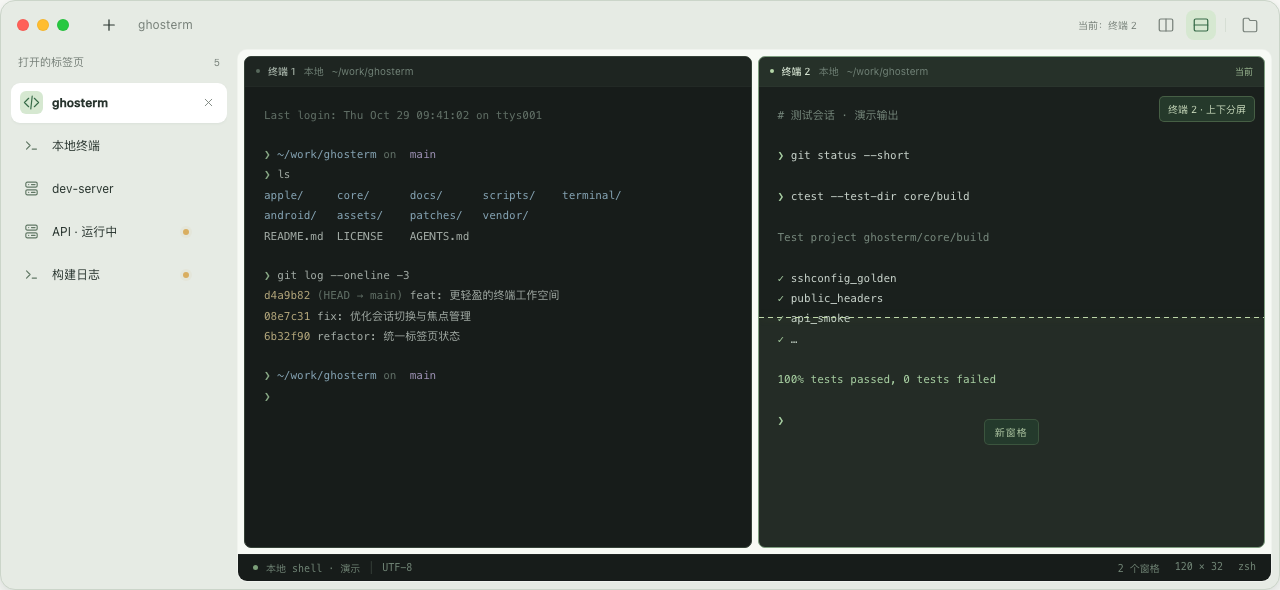
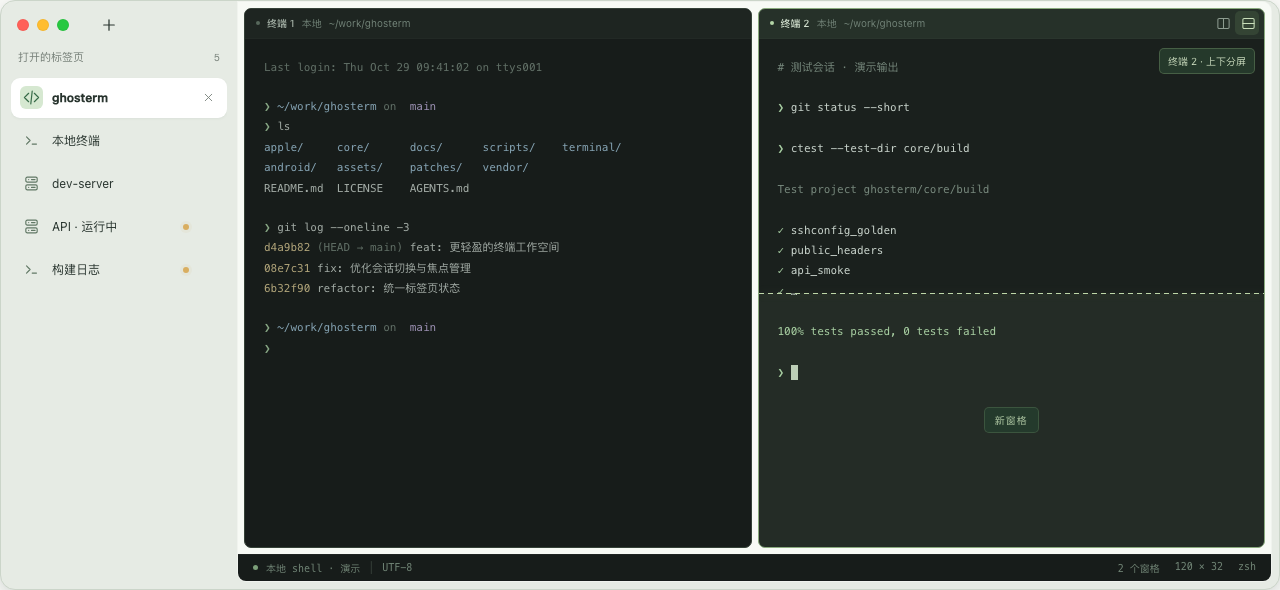
docs(design): 侧栏模式移除顶栏并将分屏入口归入窗格

diff --git a/docs/design/tabs-chrome-prototype.html b/docs/design/tabs-chrome-prototype.html
@@ -17,6 +17,10 @@ body{margin:0;background:var(--page);color:var(--ink);font-family:Inter,-apple-s
 
 .window-tools{display:flex;align-items:center;gap:5px;flex-shrink:0;margin-left:auto;padding-left:12px}#focus-target{font-size:10px;color:var(--muted);padding-right:9px}.tools-divider{width:1px;height:14px;background:var(--line);margin:0 4px}.window-tools .is-previewing{color:var(--accent);background:var(--accent-bg)}.window[data-mode=top] .top-tabs{flex:1}.window[data-mode=top] .top-list{flex:1}.window[data-mode=top] .window-tools{height:100%;padding-bottom:3px}.window .content{background:var(--surface);border-radius:10px;margin:0 7px 7px 0}.terminal-layout{padding:6px;background:var(--surface);gap:6px}.pane-tree,.pane-branch{display:flex;flex:1;min-width:0;min-height:0;gap:6px}.pane-branch[data-axis=rows]{flex-direction:column}.pane{display:flex;flex-direction:column;position:relative;flex:1;min-width:0;min-height:0;border:1px solid #354238;border-radius:7px;overflow:hidden;background:var(--terminal);outline:none}.pane:focus-visible{outline:2px solid #7aa584;outline-offset:1px}.pane.is-active{border-color:#7f9f80;box-shadow:inset 0 2px #a1c296}.pane-header{height:30px;flex-shrink:0;display:flex;align-items:center;gap:8px;padding:0 11px;border-bottom:1px solid #ffffff05;color:#718277;font-size:10px;background:#1e2521;white-space:nowrap;overflow:hidden}.pane-header strong{font-weight:500;color:#a6b3a8;font-size:10px}.pane.is-active .pane-header{background:#263129}.pane.is-active .pane-header strong{color:#d4e2d0}.pane-focus-dot{width:4px;height:4px;flex-shrink:0;border-radius:50%;background:#57685b}.pane.is-active .pane-focus-dot{background:#b4d6a7}.pane-host{max-width:30%;overflow:hidden;text-overflow:ellipsis}.pane-path{overflow:hidden;text-overflow:ellipsis;min-width:0}.pane-active-label{margin-left:auto;color:#99b590;font-size:9px;padding-left:5px;visibility:hidden}.pane.is-active .pane-active-label{visibility:visible}.pane-body{flex:1;min-height:0;padding:19px 19px;font-size:11px;line-height:1.85}.pane:not(.is-active) .pane-body{opacity:.78}.pane:not(.is-active) .cursor{visibility:hidden}.pane-body .terminal-note{display:none}.split-preview{position:absolute;inset:30px 0 0;z-index:2;pointer-events:none;background:#accb9b06}.preview-half{position:absolute;background:#a4c89413;display:flex;align-items:center;justify-content:center;color:#afc7a3;font-size:10px;letter-spacing:1px}.preview-half span{background:#243c2ddd;padding:5px 10px;border-radius:5px;border:1px solid #819e7344}.split-preview[data-axis=cols] .preview-half{inset:0 0 0 50%}.split-preview[data-axis=rows] .preview-half{inset:50% 0 0}.preview-line{position:absolute;box-shadow:0 0 10px #b6da9c35}.split-preview[data-axis=cols] .preview-line{top:0;bottom:0;left:50%;width:1px;background:repeating-linear-gradient(to bottom,#bdd7a8 0 5px,transparent 5px 9px)}.split-preview[data-axis=rows] .preview-line{left:0;right:0;top:50%;height:1px;background:repeating-linear-gradient(to right,#bdd7a8 0 5px,transparent 5px 9px)}.preview-label{position:absolute;top:9px;right:9px;font-size:10px;color:#cbdcbe;background:#263c2de8;border:1px solid #8baa7855;border-radius:5px;padding:5px 8px}.pane-menu{position:fixed;z-index:30;width:196px;padding:5px;background:var(--surface);color:var(--ink);border:1px solid var(--line);border-radius:10px;box-shadow:0 10px 35px #14211c35}.pane-menu[hidden]{display:none}.pane-menu-title{font-size:10px;color:var(--muted);padding:8px}.pane-menu button{width:100%;display:flex;justify-content:space-between;text-align:left;font-size:12px;padding:9px 8px;border-radius:5px}.pane-menu button:hover{background:var(--accent-bg)}.pane-menu button span{color:var(--muted)}.pane-menu-divider{height:1px;background:var(--line);margin:4px}.file-panel{border-radius:6px}.window .statusbar{margin-top:0}
 @media(max-width:1000px){h1{font-size:28px}.pane-body{padding:15px 12px;font-size:10px}.window-tools{padding-left:6px;gap:2px}}@media(max-width:640px){h1{font-size:24px}#focus-target{display:none}.window-tools{gap:0;padding-left:0}.window-tools .icon-btn{width:25px}.tools-divider{margin:0 3px}.pane-header{padding:0 6px;gap:5px}.pane-host,.pane-active-label{display:none}.pane-body{padding:12px 8px;font-size:9px}.terminal-layout,.pane-tree,.pane-branch{gap:4px}.terminal-layout{padding:4px}.preview-label{font-size:8px;top:5px;right:5px;padding:4px}.preview-half{font-size:9px}}
+
+/* 侧栏模式让终端直抵窗口上沿；只有顶部标签模式保留整行标题栏。 */
+.window:not([data-mode=top])>.titlebar{display:none}.sidebar{padding-top:0}#side-controls-slot{height:48px;flex-shrink:0;display:flex;align-items:center;padding:0 4px}.window-controls{display:flex;align-items:center;gap:14px;flex-shrink:0}#top-controls-slot{flex-shrink:0}.window[data-mode=top] .titlebar{display:flex}.window[data-mode=top] .content{border-radius:0 0 9px 9px}.window:not([data-mode=top]) .content{border-radius:0 10px 9px 9px;margin-top:0}.window:not([data-mode=top]) .terminal-layout{padding-top:6px}.pane-header{padding-right:5px;gap:7px}.pane-path{flex:1}.pane-actions{display:flex;align-items:center;gap:1px;margin-left:auto;flex-shrink:0;opacity:0;pointer-events:none}.pane:is(.is-active,:hover,:focus-within) .pane-actions{opacity:1;pointer-events:auto}.pane-action{width:24px;height:24px;border-radius:5px;color:#8d9c90}.pane-action .icon{width:15px;height:15px}.pane-action:hover,.pane-action.is-previewing{background:#54704d50;color:#c9dfba}.pane:has(.split-preview){border-color:#8aab7e}.pane:not(:is(.is-active,:hover,:focus-within)) .pane-actions{visibility:hidden}.window[data-mode=compact] #side-controls-slot{height:82px;padding:11px 0 7px;justify-content:center}.window[data-mode=compact] .window-controls{flex-direction:column;gap:10px}.window[data-mode=compact] .traffic{gap:4px;padding:0}.window[data-mode=compact] .traffic i{width:10px;height:10px}.window[data-mode=compact] .sidebar{padding-top:0}
+@media(max-width:640px){.window-controls{gap:8px}.pane-host,.pane-path{display:none}.pane-header{gap:4px;padding-left:5px}.pane-actions{gap:0}.pane-action{width:21px}.pane-action .icon{width:14px;height:14px}.window:not([data-mode=top]) .terminal-layout{padding-top:4px}.window[data-mode=compact] #side-controls-slot{height:78px}.pane-header strong{font-size:9px}}
 </style>
 </head>
 <body>
@@ -40,16 +44,16 @@ body{margin:0;background:var(--page);color:var(--ink);font-family:Inter,-apple-s
 <symbol id="i-pin" viewBox="0 0 24 24"><path d="m9 3 6 0-1 6 4 4v2H6v-2l4-4Zm3 12v6"/></symbol>
 </defs></svg>
 <main class="page">
- <header class="masthead"><div class="brand"><span class="brandmark"><svg class="icon"><use href="#i-terminal"/></svg></span>Ghosterm</div><div class="mast-meta"><span>INTERFACE EXPLORATION</span><span class="tag">交互原型 · 04</span></div></header>
- <section class="intro"><div><div class="eyebrow">LESS CHROME. MORE TERMINAL.</div><h1>按钮在右上角，切分落在当前窗格。</h1><p>点击窗格确定操作对象，悬停右上角分屏按钮，先看清楚这一刀切在哪里。</p></div><div class="controls"><button class="settings-entry" data-action="appearance">体验外观设置 <span>⌘ ,</span></button></div></section>
+ <header class="masthead"><div class="brand"><span class="brandmark"><svg class="icon"><use href="#i-terminal"/></svg></span>Ghosterm</div><div class="mast-meta"><span>INTERFACE EXPLORATION</span><span class="tag">交互原型 · 05</span></div></header>
+ <section class="intro"><div><div class="eyebrow">LESS CHROME. MORE TERMINAL.</div><h1>侧栏管标签，窗格管分屏。</h1><p>侧边模式去掉整条顶栏。分屏按钮回到窗格标题里，操作哪里，就在哪里出现。</p></div><div class="controls"><button class="settings-entry" data-action="appearance">体验外观设置 <span>⌘ ,</span></button></div></section>
  <nav class="system-menu" aria-label="macOS 菜单栏示意">
   <details><summary class="app-menu-name">Ghosterm</summary><div class="menu-popup"><button data-action="appearance">设置… <kbd>⌘ ,</kbd></button><p>标签布局位于「外观」</p></div></details>
-  <details><summary>窗口</summary><div class="menu-popup"><button data-action="search">搜索标签页… <kbd>⌘ K</kbd></button></div></details>
+  <details><summary>窗口</summary><div class="menu-popup"><button data-action="search">搜索标签页… <kbd>⌘ K</kbd></button><button id="files" aria-pressed="false">显示文件面板</button></div></details>
   <span class="menu-note">系统菜单栏示意 · 不占窗口空间</span>
  </nav>
  <section id="app" class="window" data-mode="side" aria-label="Ghosterm 应用交互预览">
-  <div class="titlebar"><div class="traffic" aria-hidden="true"><i></i><i></i><i></i></div><button id="new-tab" class="icon-btn" data-action="new" title="新建标签页 · ⌘T" aria-label="新建标签页"><svg class="icon"><use href="#i-plus"/></svg></button><div class="window-label"><strong>Ghosterm</strong><span>/</span><span id="window-title">ghosterm</span></div><div class="top-tabs"><div id="top-list" class="top-list" role="tablist" aria-label="顶部会话标签"></div></div><div class="title-spacer"></div><div class="window-tools" role="group" aria-label="当前窗格操作"><span id="focus-target">当前：终端 2</span><button id="split-cols" class="icon-btn" aria-label="左右分屏当前窗格" title="左右分屏当前窗格" data-split="cols"><svg class="icon"><use href="#i-split"/></svg></button><button id="split-rows" class="icon-btn" aria-label="上下分屏当前窗格" title="上下分屏当前窗格" data-split="rows"><svg class="icon"><use href="#i-split-rows"/></svg></button><span class="tools-divider"></span><button id="files" class="icon-btn" title="切换文件面板预览" aria-label="切换文件面板预览" aria-pressed="false"><svg class="icon"><use href="#i-folder"/></svg></button></div></div>
-  <div class="workarea"><aside class="sidebar" aria-label="会话侧栏"><div class="side-header"><span>打开的标签页</span><span id="tab-count">5</span></div><div id="side-list" class="tab-list" role="tablist" aria-label="侧边会话标签" aria-orientation="vertical"></div></aside>
+  <div class="titlebar"><div id="top-controls-slot"></div><div class="top-tabs"><div id="top-list" class="top-list" role="tablist" aria-label="顶部会话标签"></div></div></div>
+  <div class="workarea"><aside class="sidebar" aria-label="会话侧栏"><div id="side-controls-slot"><div id="window-controls" class="window-controls"><div class="traffic" aria-hidden="true"><i></i><i></i><i></i></div><button id="new-tab" class="icon-btn" data-action="new" title="新建标签页 · ⌘T" aria-label="新建标签页"><svg class="icon"><use href="#i-plus"/></svg></button></div></div><div class="side-header"><span>打开的标签页</span><span id="tab-count">5</span></div><div id="side-list" class="tab-list" role="tablist" aria-label="侧边会话标签" aria-orientation="vertical"></div></aside>
    <div class="content"><div class="terminal-layout"><div class="pane-tree" id="terminal" role="tabpanel" aria-label="模拟终端窗格"></div><aside class="file-panel" aria-label="文件面板示意"><h3>文件 <span style="float:right;color:#718576">只读预览</span></h3><div class="file-path">~/work/ghosterm/</div><div id="file-rows"></div></aside></div>
     <div class="statusbar"><span class="state-dot"></span><span id="status-label">本地 shell</span><span style="opacity:.4">│</span><span>UTF-8</span><div class="status-right"><span id="pane-label">1 个窗格</span><span>120 × 32</span><span>zsh</span></div></div>
    </div>
@@ -57,9 +61,9 @@ body{margin:0;background:var(--page);color:var(--ink);font-family:Inter,-apple-s
  </section>
  <div class="caption"><div class="caption-left"><span class="live-dot"></span><span id="mode-caption">侧边标签 · 会话平铺排列，完整标题一目了然</span></div><span><kbd>⌘ T</kbd> 新建 · <kbd>⌘ K</kbd> 搜索 · <kbd>⌘ ,</kbd> 设置</span></div>
  <section class="principles" aria-label="设计思路">
-  <article class="principle"><span class="principle-number">01 /</span><div><h2>操作集中，窗格保持干净</h2><p>左右分屏、上下分屏统一放在窗口右上角。每个窗格只显示名称与路径，不再重复放工具按钮。</p></div></article>
-  <article class="principle"><span class="principle-number">02 /</span><div><h2>先看目标，再执行切分</h2><p>细强调线标出当前窗格。悬停分屏按钮，目标内显示切分线与新窗格区域；点击后聚焦新窗格。</p></div></article>
-  <article class="principle"><span class="principle-number">03 /</span><div><h2>右键就地操作，同样直达</h2><p>右键任意窗格，可直接在这里分屏或关闭窗格。标签仍然平铺，布局切换仍在外观设置中。</p></div></article>
+  <article class="principle"><span class="principle-number">01 /</span><div><h2>侧栏模式，省下一整行</h2><p>红绿灯与唯一的加号收进侧栏顶部。终端从窗口上沿展开，不再重复显示当前标签标题。</p></div></article>
+  <article class="principle"><span class="principle-number">02 /</span><div><h2>分屏操作，跟着窗格走</h2><p>当前窗格或鼠标悬停时，标题右侧显示两颗分屏按钮。悬停先预览，点击只切分所在窗格。</p></div></article>
+  <article class="principle"><span class="principle-number">03 /</span><div><h2>同一套操作，适配两种布局</h2><p>顶部模式保留标签栏，分屏入口仍在窗格里。标签平铺、右键菜单与外观设置保持一致。</p></div></article>
  </section>
  <footer class="footnote"><span>设计预览：会话、终端输出及主机均为演示数据；不会执行命令或建立连接。</span><span>参考 <a href="https://blog.google/products-and-platforms/products/chrome/new-chrome-productivity-features/" target="_blank" rel="noopener noreferrer">Chrome 新版纵向标签</a> · Ghosterm UI concept</span></footer>
 </main>
@@ -88,19 +92,24 @@ let nextPaneId=1,menuPane=null;const paneStates=new Map();
 const hosts=[{name:'dev-server',address:'dev@192.0.2.10',path:'/srv/ghosterm'},{name:'api-staging',address:'dev@192.0.2.21',path:'/srv/api'},{name:'production',address:'ops@198.51.100.8',path:'/srv/app'}];
 function notify(message){$('#toast').textContent=message;$('#toast').classList.add('show');clearTimeout(toastTimer);toastTimer=setTimeout(()=>$('#toast').classList.remove('show'),2400)}
 function tabHTML(t){return `<div class="tab" role="tab" tabindex="${t.id===active?0:-1}" aria-selected="${t.id===active}" aria-controls="terminal" draggable="true" data-id="${t.id}" title="${escapeHTML(t.name+' · '+(t.host||'本地 shell'))}"><span class="tab-icon">${icon(t.type)}</span><span class="tab-name">${escapeHTML(t.name)}</span>${t.busy?'<span class="state-dot busy" title="任务运行中" aria-label="任务运行中"></span>':''}<button class="tab-close" aria-label="关闭 ${escapeHTML(t.name)}" title="关闭标签页" tabindex="-1">${icon('close')}</button></div>`}
+function syncChromeLayout(){
+ const slot=$(mode==='top'?'#top-controls-slot':'#side-controls-slot');
+ if($('#window-controls').parentElement!==slot)slot.append($('#window-controls'));
+}
 function render(){
+ syncChromeLayout();
  $('#tab-count').textContent=tabs.length;
  const tabMarkup=tabs.map(tabHTML).join('');
  $('#side-list').innerHTML=tabMarkup;
  $('#top-list').innerHTML=tabMarkup;
  const t=tabs.find(t=>t.id===active);
  document.querySelectorAll('[data-split],#files').forEach(button=>button.disabled=!t);
- $('#window-title').textContent=t?t.name:'新标签页';
+
 
  $('#status-label').textContent=t?(t.kind==='ssh'?'SSH · 已连接（演示）':'本地 shell · 演示'):'未连接';
  $('#terminal').innerHTML=t?renderPaneTree(getPaneState(t).tree,t,getPaneState(t).active):'<div class="empty-terminal"><h2>从一个新标签开始</h2><p>点击左上角的＋，打开本地终端或连接主机。</p></div>';
  $('#app').classList.toggle('files',!!t&&files);
- $('#files').setAttribute('aria-pressed',String(!!t&&files));
+ $('#files').setAttribute('aria-pressed',String(!!t&&files));$('#files').textContent=files?'隐藏文件面板':'显示文件面板';
  updatePaneFocus();
  const visibleList=mode==='top'?'#top-list':'#side-list';
  document.querySelector(visibleList+' .tab[aria-selected="true"]')?.scrollIntoView({block:'nearest',inline:'nearest'});
@@ -136,14 +145,14 @@ function renderPaneTree(node,t,focused){
 
 <span class="term-green">❯</span> <span class="term-blue">${escapeHTML(t.path)}</span>
 <span class="term-green">❯</span> <span class="cursor"></span></pre>`;
- return `<section class="pane ${node.id===focused?'is-active':''}" data-pane="${node.id}" tabindex="${node.id===focused?0:-1}" aria-label="${node.label}${node.id===focused?'，当前窗格':''}"><header class="pane-header"><span class="pane-focus-dot"></span><strong>${node.label}</strong><span class="pane-host">${escapeHTML(t.host||'本地')}</span><span class="pane-path">${escapeHTML(t.path)}</span><span class="pane-active-label">当前</span></header><div class="terminal pane-body">${output}</div></section>`;
+ return `<section class="pane ${node.id===focused?'is-active':''}" data-pane="${node.id}" tabindex="${node.id===focused?0:-1}" aria-label="${node.label}${node.id===focused?'，当前窗格':''}"><header class="pane-header"><span class="pane-focus-dot"></span><strong>${node.label}</strong><span class="pane-host">${escapeHTML(t.host||'本地')}</span><span class="pane-path">${escapeHTML(t.path)}</span><div class="pane-actions" role="group" aria-label="${node.label}分屏操作"><button class="icon-btn pane-action" data-split="cols" aria-label="左右分屏${node.label}" title="左右分屏此窗格" tabindex="${node.id===focused?0:-1}">${icon('split')}</button><button class="icon-btn pane-action" data-split="rows" aria-label="上下分屏${node.label}" title="上下分屏此窗格" tabindex="${node.id===focused?0:-1}">${icon('split-rows')}</button></div></header><div class="terminal pane-body">${output}</div></section>`;
 }
 function updatePaneFocus(){
  const t=tabs.find(t=>t.id===active),state=t?getPaneState(t):null;
- const leaf=state?paneLeaves(state.tree).find(p=>p.id===state.active):null;
- $('#focus-target').textContent=leaf?'当前：'+leaf.label:'没有当前窗格';
+
+
  $('#pane-label').textContent=state?paneLeaves(state.tree).length+' 个窗格':'0 个窗格';
- document.querySelectorAll('.pane').forEach(p=>{const selected=p.dataset.pane===state?.active;p.classList.toggle('is-active',selected);p.tabIndex=selected?0:-1;p.setAttribute('aria-label',p.querySelector('strong').textContent+(selected?'，当前窗格':''))});
+ document.querySelectorAll('.pane').forEach(p=>{const selected=p.dataset.pane===state?.active;p.classList.toggle('is-active',selected);p.tabIndex=selected?0:-1;p.setAttribute('aria-label',p.querySelector('strong').textContent+(selected?'，当前窗格':''));p.querySelectorAll('.pane-action').forEach(button=>button.tabIndex=selected?0:-1)});
 }
 function focusPane(id){
  const t=tabs.find(t=>t.id===active);if(!t)return;
@@ -157,7 +166,7 @@ function previewSplit(axis,id){
  const label=paneLeaves(state.tree).find(p=>p.id===target).label;
  const preview=document.createElement('div');preview.className='split-preview';preview.dataset.axis=axis;preview.setAttribute('aria-hidden','true');
  preview.innerHTML=`<div class="preview-half"><span>新窗格</span></div><div class="preview-line"></div><div class="preview-label">${label} · ${axis==='cols'?'左右':'上下'}分屏</div>`;pane.append(preview);
- document.querySelector(`[data-split="${axis}"]`)?.classList.add('is-previewing');
+ pane.querySelector(`[data-split="${axis}"]`)?.classList.add('is-previewing');
 }
 function splitPane(axis,id){
  const t=tabs.find(t=>t.id===active);if(!t)return;const state=getPaneState(t),target=id||state.active;
@@ -212,14 +221,12 @@ function openAppearance(){syncAppearance();$('#appearance').showModal()}
 document.querySelectorAll('[name="position"]').forEach(input=>input.addEventListener('change',()=>setMode(input.value)));
 $('#compact-mode').addEventListener('change',()=>setMode($('#compact-mode').checked?'compact':'side'));
 document.querySelectorAll('[name="color"]').forEach(input=>input.addEventListener('change',()=>document.body.classList.toggle('dark',input.value==='dark')));
-$('#files').onclick=()=>{files=!files;render()};
-document.querySelectorAll('[data-split]').forEach(button=>{
- button.addEventListener('pointerenter',()=>previewSplit(button.dataset.split));
- button.addEventListener('pointerleave',clearPreview);
- button.addEventListener('focus',()=>previewSplit(button.dataset.split));
- button.addEventListener('blur',clearPreview);
- button.addEventListener('click',()=>splitPane(button.dataset.split));
-});
+$('#files').onclick=()=>{files=!files;document.querySelectorAll('.system-menu details').forEach(menu=>menu.open=false);render()};
+$('#terminal').addEventListener('pointerover',e=>{const button=e.target.closest('[data-split]');if(button&&!button.contains(e.relatedTarget))previewSplit(button.dataset.split,button.closest('.pane').dataset.pane)});
+$('#terminal').addEventListener('pointerout',e=>{const button=e.target.closest('[data-split]');if(button&&!button.contains(e.relatedTarget))clearPreview()});
+$('#terminal').addEventListener('focusin',e=>{const button=e.target.closest('[data-split]');if(button)previewSplit(button.dataset.split,button.closest('.pane').dataset.pane)});
+$('#terminal').addEventListener('focusout',e=>{if(e.target.closest('[data-split]'))clearPreview()});
+$('#terminal').addEventListener('click',e=>{const button=e.target.closest('[data-split]');if(button){e.stopPropagation();closePaneMenu();splitPane(button.dataset.split,button.closest('.pane').dataset.pane)}});
 document.addEventListener('click',e=>{
  const paneAction=e.target.closest('[data-pane-action]');if(paneAction){const target=menuPane,action=paneAction.dataset.paneAction;closePaneMenu();if(action==='close')closePane(target);else splitPane(action,target);return}
  if(!e.target.closest('#pane-menu'))closePaneMenu();
